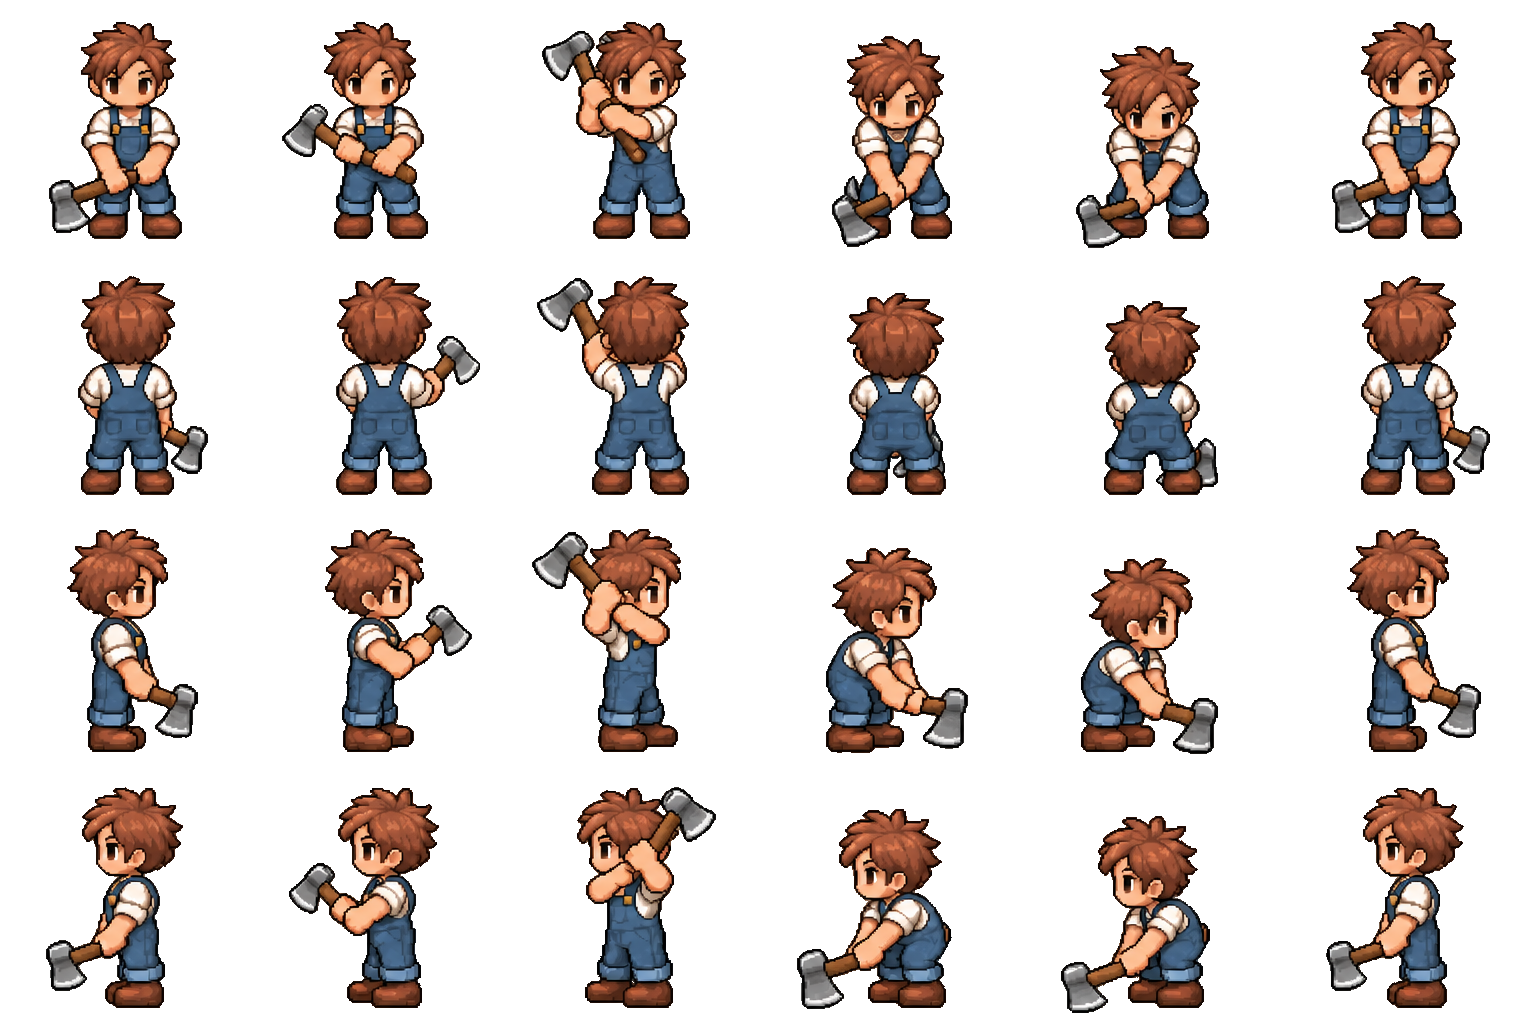
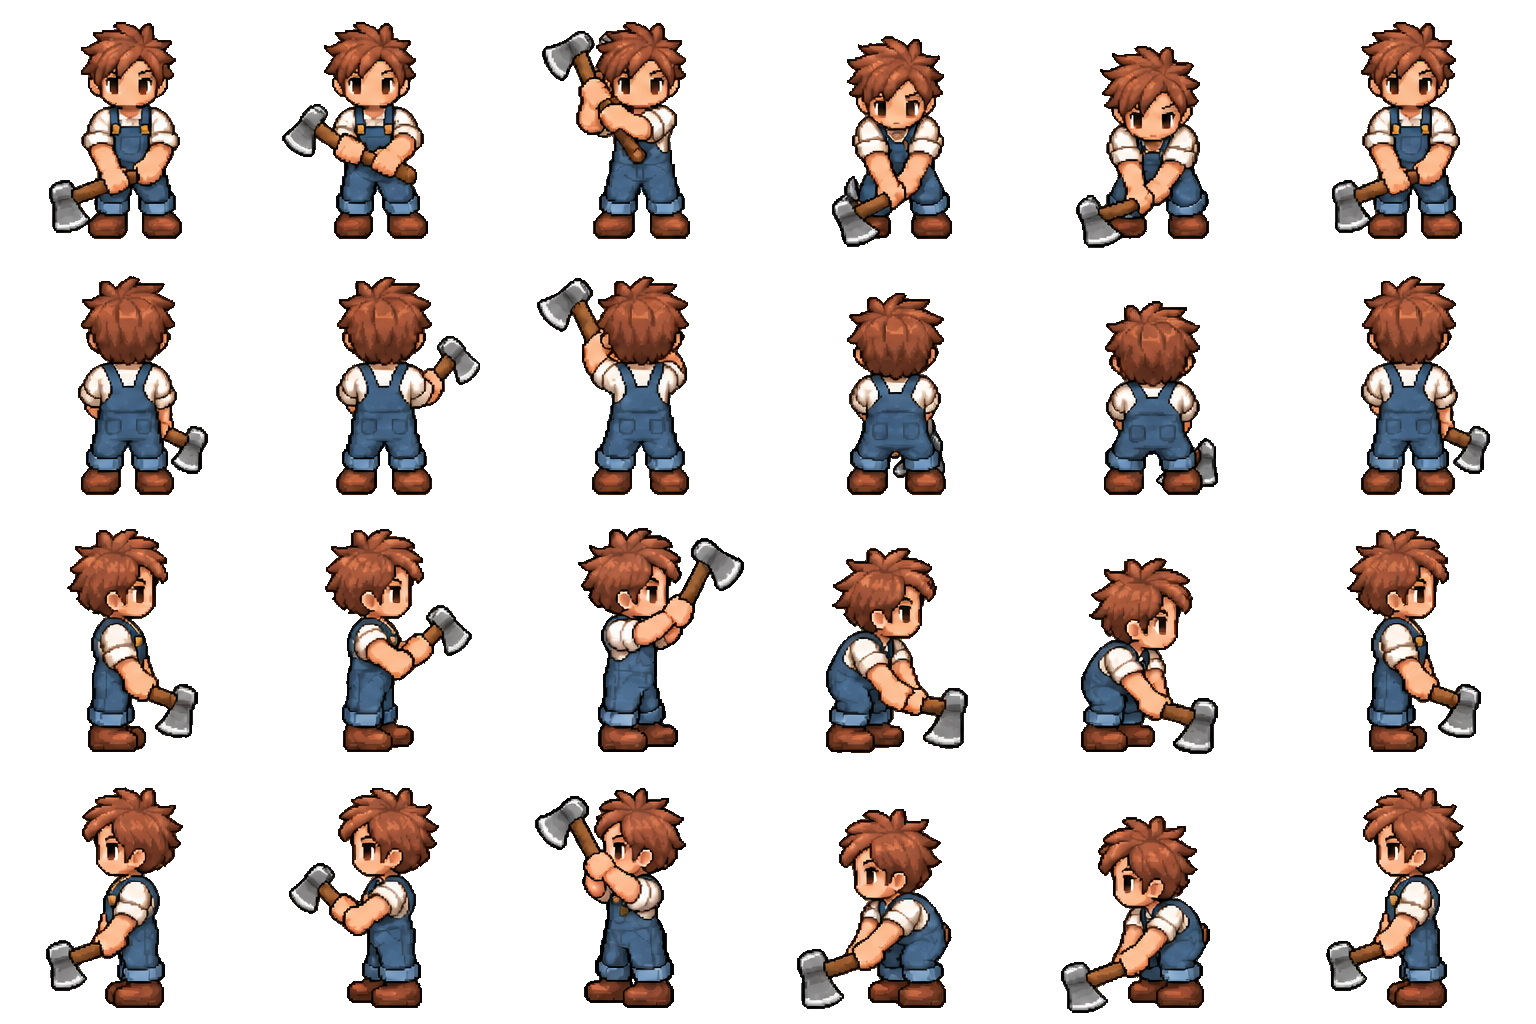
Corrige levantamento lateral da machadinha e preserva vista traseira

Changed region(s): [[0.3438, 0.75, 0.4688, 0.9062], [0.3438, 0.5312, 0.5, 0.6562], [0.4062, 0.5, 0.4375, 0.5312]]

diff --git a/src/player-mining-art.ts b/src/player-mining-art.ts
@@ -13,7 +13,7 @@ function texture(scene:Phaser.Scene,id:CharacterId,tier:number,work:Work):string
  const key=tier>0?source+'-'+tier:source;if(!scene.textures.exists(key)){
   const canvas=document.createElement('canvas');canvas.width=1536;canvas.height=1024;const c=canvas.getContext('2d')!;c.imageSmoothingEnabled=false;c.drawImage(scene.textures.get(source).getSourceImage()as HTMLImageElement,0,0);
   const pixels=c.getImageData(0,0,1536,1024);for(let row=0;row<4;row++)for(let frame=0;frame<6;frame++){
-   const [x,y,w,h]=PLAYER_PICKAXE_HEADS[row][frame];for(let dy=y;dy<Math.min(256,y+h);dy++)for(let dx=x;dx<Math.min(256,x+w);dx++){
+   const [x,y,w,h]=work==='chopping'&&frame===2&&row>=2?(row===2?[158,16,82,80]:[10,16,88,80]):PLAYER_PICKAXE_HEADS[row][frame];for(let dy=y;dy<Math.min(256,y+h);dy++)for(let dx=x;dx<Math.min(256,x+w);dx++){
     const i=((row*256+dy)*1536+frame*256+dx)*4;if(!pixels.data[i+3])continue;
     const rgb=playerMiningMetal(pixels.data[i],pixels.data[i+1],pixels.data[i+2],tier);for(let k=0;k<3;k++)pixels.data[i+k]=rgb[k];
    }
